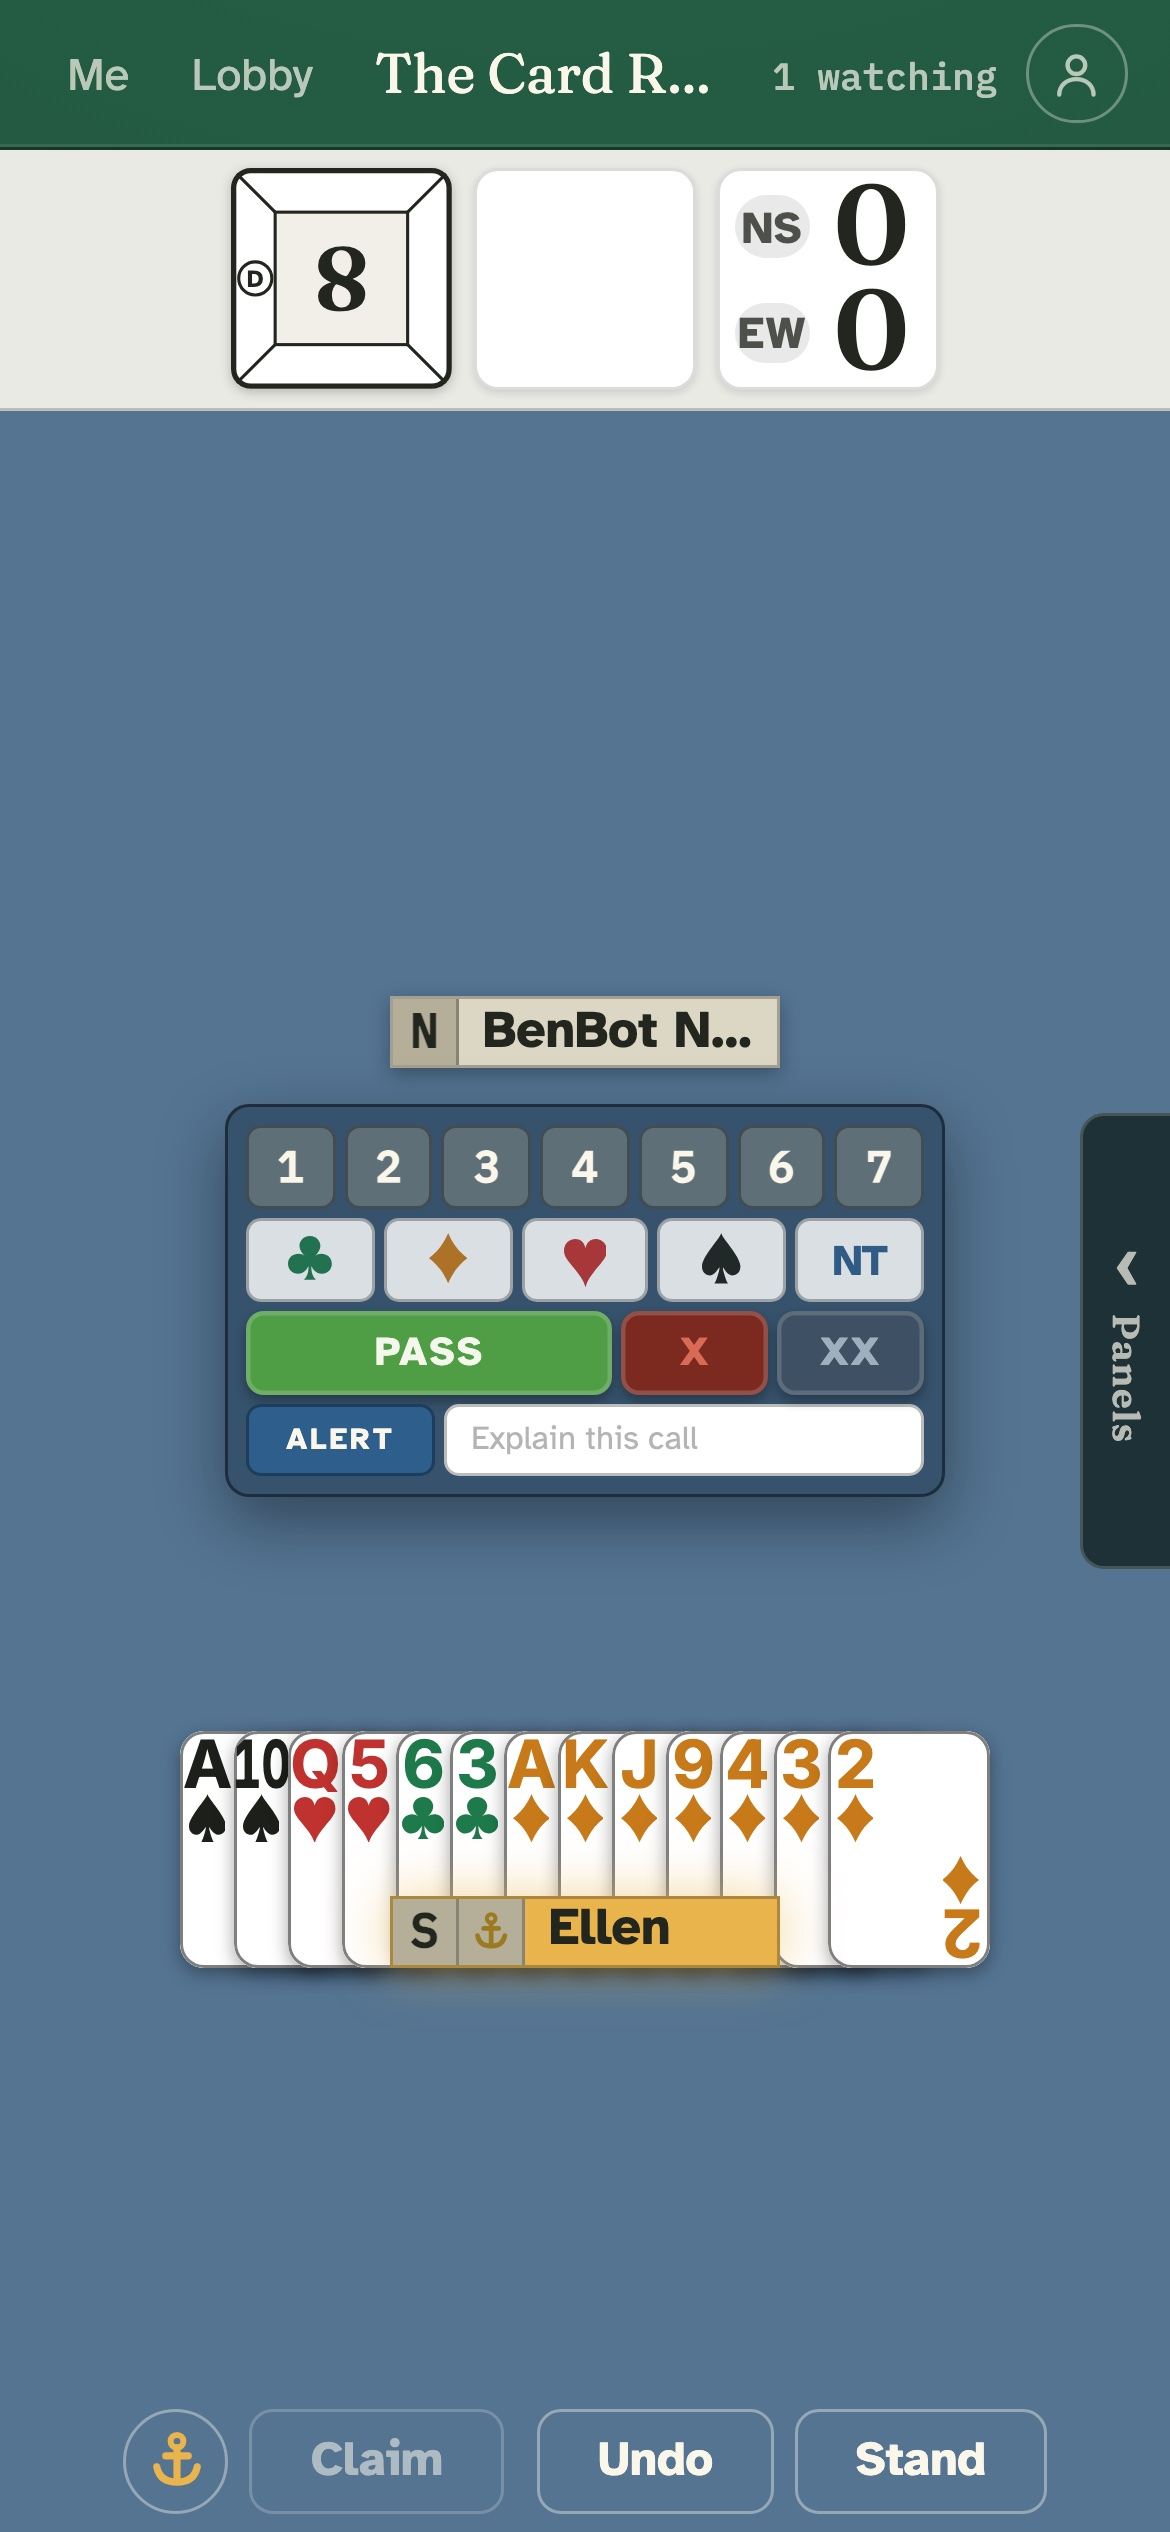
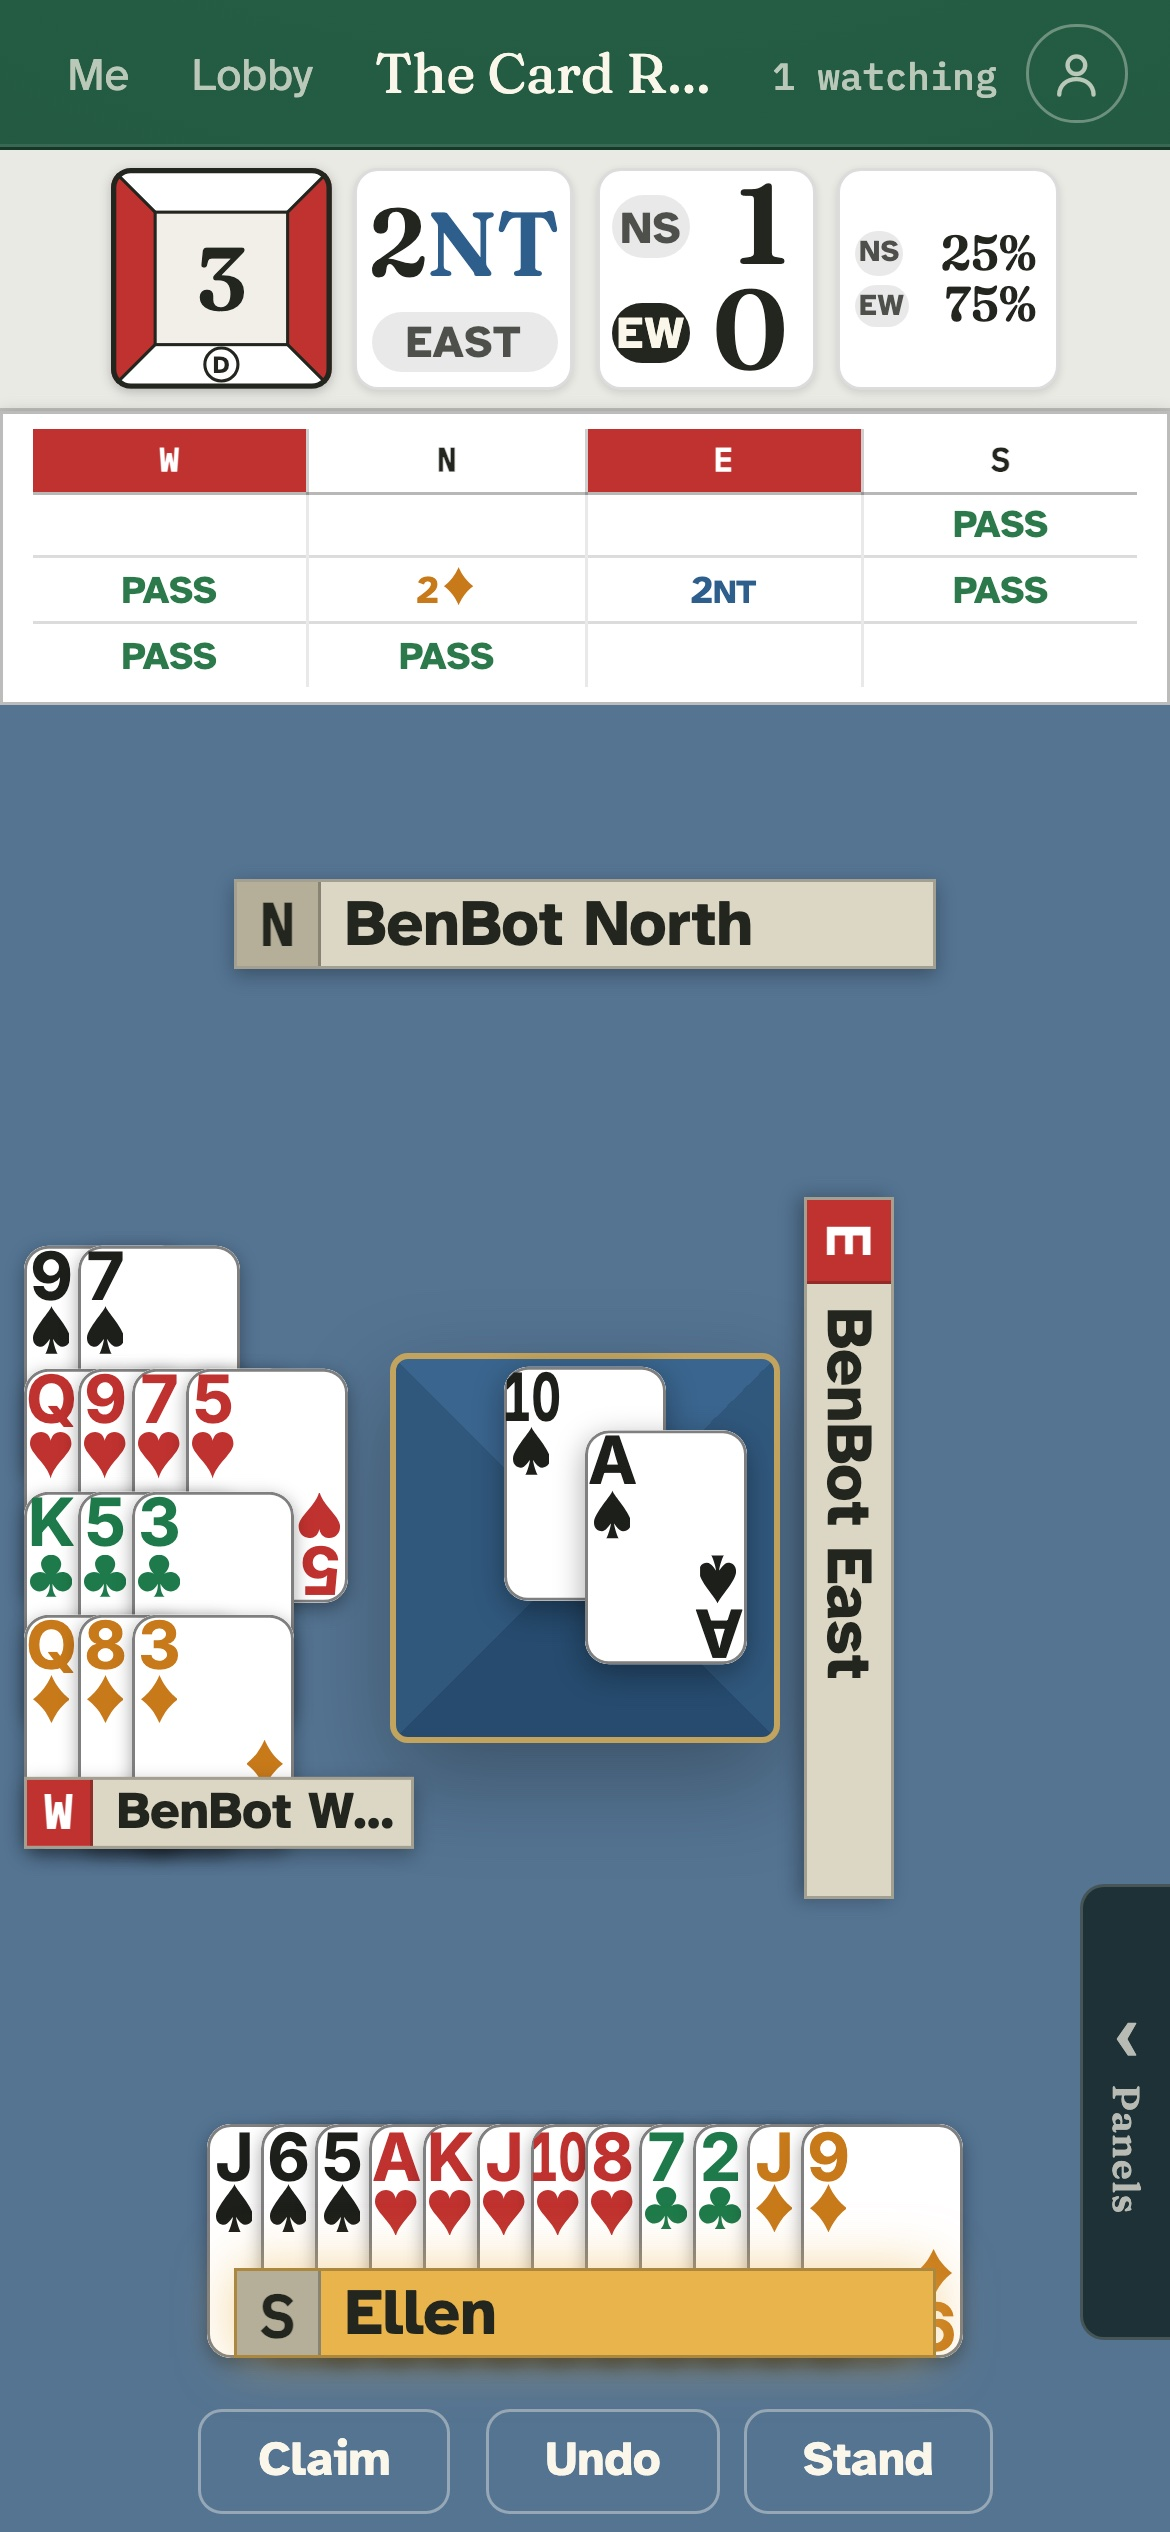
The phone shots catch up with the phone table, and the rail's view joins the page
phone-table.jpg is now the overhauled phone stage mid-play: the four-tile
strip (board, contract, tricks, running score — a real field percentage),
the full auction band beneath it, dummy's cards fanned beside the trick,
upright side name bars, and Ellen's hand by her thumbs. A second phone,
phone-kibitz.jpg, shows the same table from the rail: the KIBITZING badge
and all four hands face up — the caption scopes that to tables that let
kibitzers see everything. Alt text and README provenance updated (evening
reshoot on an isolated worktree node against a same-day copy of the live
DB, torn down after); the guardrails gain the kibitzer-see-all scoping rule.

diff --git a/index.html b/index.html
@@ -314,10 +314,18 @@
           </ol>
         </div>
         <figure class="split-media phone-figure">
-          <img src="/images/phone-table.jpg"
-               alt="Your seat on a phone, mid-auction: your hand fanned at the bottom, the bidding box on the felt, and the claim and undo controls along the bottom"
-               width="1170" height="2532">
-          <figcaption>Phones deal you in too &mdash; cards-only, video stays on bigger screens.</figcaption>
+          <div class="phone-pair">
+            <img src="/images/phone-table.jpg"
+                 alt="Your seat on a phone, mid-play: the board, contract, trick count, and your running score in a strip up top, the full auction beneath it, dummy's cards fanned beside the trick, and your own hand at the bottom with the claim and undo controls"
+                 width="1170" height="2532">
+            <img src="/images/phone-kibitz.jpg"
+                 alt="Kibitzing from a phone: the kibitzing badge in the header, all four hands face up around the trick, and the auction and score strip above them"
+                 width="1170" height="2532">
+          </div>
+          <figcaption>Phones deal you in too &mdash; your seat with the score strip,
+          the full auction, dummy beside the trick, your cards down by your thumbs.
+          Or watch from the rail: at tables that let kibitzers see everything, the
+          whole deal is face up. Cards-only: video stays on bigger screens.</figcaption>
         </figure>
       </div>
     </div>

diff --git a/css/site.css b/css/site.css
@@ -516,6 +516,12 @@ section h2 {
 }
 
 .phone-figure { margin: 0; }
+.phone-figure .phone-pair {
+  display: flex;
+  gap: 1.3rem;
+  justify-content: center;
+}
+.phone-figure .phone-pair img { width: min(300px, 48%); }
 .phone-figure img {
   width: min(300px, 80%);
   margin-inline: auto;

diff --git a/README.md b/README.md
@@ -64,12 +64,27 @@ bidding box, name bars, drawer dock, felt lobby cards). They were shot on an
 isolated staging node running the production code against a **copy of the
 live database**, so every score, field percentage, and traveller row is a
 real club result; the staging boards and the throwaway database were deleted
-after the shoot. The hero and phone shots are a **seated player's own view**:
+after the shoot. The hero shot is a **seated player's own view**:
 a temporary account ("Ellen") sat South with three bots, a script passed her
 auctions and played her lowest legal cards over the channel until a board
 mid-play with her on turn defending — her hand plus dummy, the gold your-turn
 nameplate, the Claim/Undo command bar, and a genuinely scored drawer
-("1 watching" is a real kibitzer, staged as "Margaret"). The captain-menu and
+("1 watching" is a real kibitzer, staged as "Margaret"). The two phone shots (`phone-table.jpg`, `phone-kibitz.jpg`) were retaken the
+evening of the same day, after the phone table overhaul (the four-tile strip,
+the auction band beneath it, dummy's cards on the felt) landed in app commit
+`a538cc0`. Same pipeline, fresh run: an isolated worktree node
+(`bridge_play-site`, port 4112) against a new same-day copy of the live
+database (`BridgeDB_shoot2`), Ellen South with three bots at "The Card Room"
+and Margaret the "1 watching" kibitzer; the table, node, database, and
+worktree were torn down as soon as the shots were taken. `phone-table.jpg` is
+Ellen's own view defending 2NT — dummy's cards fanned beside the trick, the
+full auction beneath the strip. `phone-kibitz.jpg` is Margaret's view of a
+later board at the same table: all four hands are face up because the table's
+kibitzers-see-all setting (a captain's choice, on by default) allows it, and
+the page's caption scopes the claim accordingly. The running-score
+percentages in both are real field results from the copied database.
+
+The captain-menu and
 settings shots are the captain's own view at a forming table; the traveller
 and replay panels are the drawer dock's own objects. `images/og-image.jpg` is
 a 1200×630 crop of the hero for link previews. The video-section "four
@@ -82,6 +97,7 @@ Don't claim: guest play without an account, bot difficulty levels (the two bots
 differ in speed, not strength), video at tournament tables or on phones,
 individual movements (pairs and team matches today — team matches shipped
 2026-08, so the page may now say so), masterpoints or league sanctioning,
-password reset (not wired up yet), or regularly scheduled house-run games
+password reset (not wired up yet), that kibitzers always see all four hands
+(it's a per-table setting — scope any such claim to tables that allow it), or regularly scheduled house-run games
 (every event is player-hosted today; Denny plans house games once built out —
 add them to the page only when they actually run).
